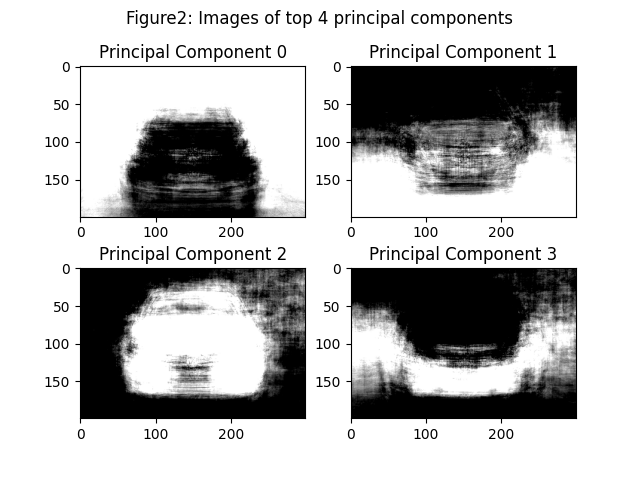
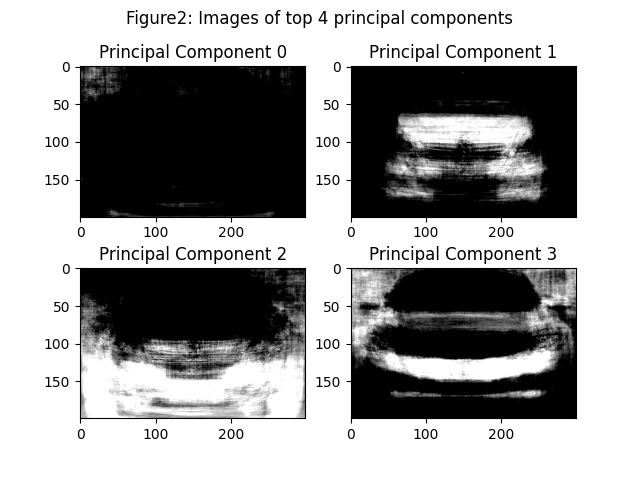
update

diff --git a/PA1/main.py b/PA1/main.py
@@ -1,112 +1,44 @@
 # -*- coding: utf-8 -*
-import os, random
-import numpy as np
 import matplotlib.pyplot as plt
-from PCA import PCA
 from dataloader import load_data
-from gradientDescent import *
 from utils import *
+from TrainProcedure import *
 
 def main():
-    # Load data from ./resized/ folder
-    images, cnt = load_data(data_dir="./resized/")
-    Minivan = images.get('Minivan')
-    Convertible = images.get('Convertible')
+    do_show_fig = True
+    do_save_fig = True
+    CrossValid = True
 
-    minivan = flatten_img(Minivan)
-    convertible = flatten_img(Convertible)
+    lr = 5 # learning rate
+    M = 600 # Total Epoch
+    Interval = 50 # Interval used for drawing the errorbars
+    if CrossValid:
+        # k-fold dataset
+        k = 10
+        # Load data from ./resized/ folder
+        images, cnt = load_data(data_dir="./aligned/")
+        Minivan = images.get('Minivan')
+        Convertible = images.get('Convertible')
+        minivan = flatten_img(Minivan)
+        convertible = flatten_img(Convertible)
+        cost_train, acc_train, cost_val, acc_val, cost_test, acc_test, final_acc = CrossRun(k, minivan, convertible, lr, M)
+    else:
+        # Load data from ./resized/ folder
+        images, cnt = load_data(data_dir="./resized/")
+        Minivan = images.get('Minivan')
+        Convertible = images.get('Convertible')
+        minivan = flatten_img(Minivan)
+        convertible = flatten_img(Convertible)
+        cost_train, acc_train, cost_val, acc_val, cost_test, acc_test, final_acc = OneRun(minivan, convertible, lr, M)
 
-
-    # select train/val/test from class1=Minivan(M)
-    trainM, valM, testM = split_dataset(minivan,10)
-    # select train/val/test from class2=Convertible(C)
-    trainC, valC, testC = split_dataset(convertible,10)
-    # combine the datasets
-    train1 = np.concatenate((trainM, trainC),axis=0) # images
-    val1 = np.concatenate((valM, valC),axis=0)
-    test1 = np.concatenate((testM, testC),axis=0)
-    # generate input y from the datasets
-    train1_y = generate_y(trainM,trainC)
-    val1_y = generate_y(valM,valC)
-    test1_y = generate_y(testM,testC)
-
-    # Perform PCA on the flattened training set
-    # Try using different numbers of components
-    num_PC = 10
-    projected, mean_image, top_sqrt_eigen_values, top_eigen_vectors, eigen_vectors = PCA(train1,num_PC) # PCA performed only on the training set
-
-    # Check images for top 4 PCs
-    PC4_plot(eigen_vectors)
-
-
-    # Check projections - should be zero mean and unit std
-    # Answer: this is a good idea because normalization help speed up the gradient descent etc.
-    # (Normailzation is necessary for gradient descent) Or the learnt answer will be biased
-    # print(np.average(projected,axis=0)) # this is close to zero
-    # print(np.std(projected,axis=0)) # !=1 ???
+    # Plot: Cost & Accuracy against Epochs
+    plotFunc(cost_train, acc_train, SetName = 'TrainSet', do_save_fig = do_save_fig, CrossValid = CrossValid, Epoch = M, Interval = Interval)
+    plotFunc(cost_val, acc_val, SetName = 'ValidSet', do_save_fig = do_save_fig, CrossValid = CrossValid, Epoch = M, Interval = Interval)
+    plotFunc(cost_test, acc_test, SetName = 'TestSet', do_save_fig = do_save_fig, CrossValid = CrossValid, Epoch = M, Interval = Interval)
+    if do_show_fig:
+        plt.show()
 
 
-    # generate input x from the datasets
-    train1_x = np.insert(projected, 0, 1, axis=1) # adding x0 = 1 (a ones column)
-    val1_x = apply_PCA(val1,mean_image,top_eigen_vectors,top_sqrt_eigen_values)
-    test1_x = apply_PCA(test1,mean_image,top_eigen_vectors,top_sqrt_eigen_values)
-
-    # print(train1_x.shape)
-    # print(train1_y.shape)
-    # print(w.shape)
-
-    # initial weight vector
-    w = theta(train1_x)
-    # define learning rate and total number of epochs
-    lr = 5
-    M = 600
-    # lists that record cost
-    cost_train_list = []
-    cost_val_list = []
-    cost_test_list = []
-    # lists that record accuracy
-    acc_train_list = []
-    acc_val_list = []
-    acc_test_list = []
-
-    # loop M epochs
-    for epoch in range(M):
-        # tran the model with training set (train_x and train_y)
-        grad, w = stepwise_gradient(train1_x,train1_y,w,lr)
-        # compute and record cost and accuracy
-        # training set
-        cost_train = cost_function(train1_x, train1_y, w)
-        cost_train_list.append(cost_train)
-        acc_train = predict_acc(train1_x, train1_y, w)
-        acc_train_list.append(acc_train)
-        # acc_train =
-        # validation set
-        cost_val = cost_function(val1_x,val1_y,w) # test performance on val every epoch
-        cost_val_list.append(cost_val)
-        acc_val = predict_acc(val1_x, val1_y, w)
-        acc_val_list.append(acc_val)
-        # testing set
-        cost_test = cost_function(test1_x, test1_y, w)
-        cost_test_list.append(cost_test)
-        acc_test = predict_acc(test1_x, test1_y, w)
-        acc_test_list.append(acc_test)
-    # save the best model
-    print(cost_val_list)
-    ad
-    val, idx = min((val, idx) for (idx, val) in enumerate(cost_val_list))
-
-    print(cost_test_list[idx],acc_test_list[idx])
-
-    # Plot: Cost against Epochs
-    plt.figure()
-    plt.plot(cost_train_list, 'b', label='training error')
-    plt.plot(cost_val_list, 'r', label='validation error')
-    plt.xlabel('M epochs')
-    plt.ylabel('Cost')
-    plt.title('Training and validation loss in one run')
-    plt.legend()
-    # plt.show()
-    plt.savefig('./figures/Q5b_curves.png')
 
 if __name__ == '__main__':
     main()

diff --git a/PA1/TrainProcedure.py b/PA1/TrainProcedure.py
@@ -1,0 +1,112 @@
+from gradientDescent import *
+from utils import *
+import numpy as np
+from PCA import PCA
+
+#Main training procejures for CrossRun
+def CrossRun(k, minivan, convertible, lr, M):
+    # define learning rate and total number of epochs
+    trainM, valM, testM = split_dataset_k_fold(minivan, k)
+    trainC, valC, testC = split_dataset_k_fold(convertible, k)
+    cost_train = np.zeros([k, M])
+    acc_train = np.zeros([k, M])
+    cost_val = np.zeros([k, M])
+    acc_val = np.zeros([k, M])
+    cost_test = np.zeros([k, M])
+    acc_test = np.zeros([k, M])
+    final_acc = np.zeros([k,1])
+    for i in range(k):
+        print('This is %dth iteration.' %(i))
+        #the first parameter corresponds to the index of the output image
+        cost_train_list, acc_train_list, cost_val_list, acc_val_list, cost_test_list, acc_test_list, final_acc_value = OneRunKernel(i, lr, M, trainM[i], valM[i], testM[i], trainC[i], valC[i], testC[i], CrossValid = True)
+        cost_train[i,:] = np.array(cost_train_list)
+        acc_train[i,:] = np.array(acc_train_list)
+        cost_val[i,:] = np.array(cost_val_list)
+        acc_val[i,:] = np.array(acc_val_list)
+        cost_test[i,:] = np.array(cost_test_list)
+        acc_test[i,:] = np.array(acc_test_list)
+        final_acc[i] = final_acc_value
+    return cost_train, acc_train, cost_val, acc_val, cost_test, acc_test, np.mean(final_acc)
+
+#Main training procejures for One_run
+def OneRun(minivan, convertible, lr, M):
+    # define learning rate and total number of epochs
+    lr = 5
+    M = 600
+    # select train/val/test from class1=Minivan(M)
+    trainM, valM, testM = split_dataset_one_run(minivan)
+    # select train/val/test from class2=Convertible(C)
+    trainC, valC, testC = split_dataset_one_run(convertible)
+
+    return OneRunKernel(0, lr, M, trainM, valM, testM, trainC, valC, testC)  #the first parameter in this case is useless
+
+# Kernel function for training during each trail
+def OneRunKernel(i, lr, M, trainM, valM, testM, trainC, valC, testC, CrossValid = False):
+    # combine the datasets
+    train1 = np.concatenate((trainM, trainC),axis=0) # images
+    val1 = np.concatenate((valM, valC),axis=0)
+    test1 = np.concatenate((testM, testC),axis=0)
+    # generate input y from the datasets
+    train1_y = generate_y(trainM,trainC)
+    val1_y = generate_y(valM,valC)
+    test1_y = generate_y(testM,testC)
+
+    # Perform PCA on the flattened training set
+    # Try using different numbers of components
+    num_PC = 10
+    projected, mean_image, top_sqrt_eigen_values, top_eigen_vectors, eigen_vectors = PCA(train1,num_PC) # PCA performed only on the training set
+    # Check images for top 4 PCs
+    PC4_plot(eigen_vectors, i, CrossValid)
+
+    # Check projections - should be zero mean and unit std
+    # Answer: this is a good idea because normalization help speed up the gradient descent etc.
+    # (Normailzation is necessary for gradient descent) Or the learnt answer will be biased
+    # print(np.average(projected,axis=0)) # this is close to zero
+    # print(np.std(projected,axis=0)) # !=1 ???
+
+    # generate input x from the datasets
+    # Using PCA to reduce the dimensionality (60000 -> 10, which greatly reduce the size of NN)
+    train1_x = np.insert(projected, 0, 1, axis=1) # adding x0 = 1 (a ones column)
+    val1_x = apply_PCA(val1,mean_image,top_eigen_vectors,top_sqrt_eigen_values)
+    test1_x = apply_PCA(test1,mean_image,top_eigen_vectors,top_sqrt_eigen_values)
+    # print(train1_x.shape)
+    # print(train1_y.shape)
+    # print(w.shape)
+
+    # initial weight vector
+    w = theta(train1_x)
+    # lists that record cost
+    cost_train_list = []
+    cost_val_list = []
+    cost_test_list = []
+    # lists that record accuracy
+    acc_train_list = []
+    acc_val_list = []
+    acc_test_list = []
+
+    # loop M epochs
+    for epoch in range(M):
+        # tran the model with training set (train_x and train_y)
+        w = stepwise_gradient(train1_x,train1_y,w,lr)
+        # compute and record cost and accuracy
+        # training set
+        cost_train = cost_function(train1_x, train1_y, w)
+        cost_train_list.append(cost_train)
+        acc_train = predict_acc(train1_x, train1_y, w)
+        acc_train_list.append(acc_train)
+        # acc_train =
+        # validation set
+        cost_val = cost_function(val1_x,val1_y,w) # test performance on val every epoch
+        cost_val_list.append(cost_val)
+        acc_val = predict_acc(val1_x, val1_y, w)
+        acc_val_list.append(acc_val)
+        # testing set
+        cost_test = cost_function(test1_x, test1_y, w)
+        cost_test_list.append(cost_test)
+        acc_test = predict_acc(test1_x, test1_y, w)
+        acc_test_list.append(acc_test)
+    # save the best model
+    val, idx = min((val, idx) for (idx, val) in enumerate(cost_val_list))  #Access the index associated with the lowest loss on the ValidSet
+    # print(cost_test_list[idx],acc_test_list[idx])
+
+    return cost_train_list, acc_train_list, cost_val_list, acc_val_list, cost_test_list, acc_test_list, acc_test_list[idx]

diff --git a/PA1/utils.py b/PA1/utils.py
@@ -10,11 +10,35 @@ def flatten_img(imgset):
         new_set.append(imgset[i].flatten())
     return np.array(new_set)
 
-# Split the dataset into (k-2) sets for training, 1 set for validation and 1 set for testing
-def split_dataset(dataset,k):
+# Split the dataset into 8/10 portion for training, 1 set for validation and 1 set for testing
+# Repeat k times and then average
+def split_dataset_k_fold(dataset, k):
     size = len(dataset)
-    cut_train = int((k-2)/k * size) # training cutoff
-    cut_val = int(1/k * size) # validation cutoff
+    cut_train = int((10-2)/10 * size) # training cutoff
+    cut_val = int(1/10 * size) # validation cutoff
+    train = []
+    val = []
+    test = []
+    for i in range(k):
+        # shuffle the dataset
+        idx = np.arange(0,size)
+        random.shuffle(idx)
+        shuffled_M = dataset[idx]
+        # select subsets of data
+        train_tmp = shuffled_M[:cut_train] # (k-2) training set
+        val_tmp = shuffled_M[cut_train:(cut_train+cut_val)] # 1 validation set
+        test_tmp = shuffled_M[(cut_train+cut_val):] # 1 testing set
+        train.append(train_tmp)
+        val.append(val_tmp)
+        test.append(test_tmp)
+    return train, val, test
+
+
+# Split the dataset into 8/10 portion for training, 1 set for validation and 1 set for testing
+def split_dataset_one_run(dataset):
+    size = len(dataset)
+    cut_train = int((10-2)/10 * size) # training cutoff
+    cut_val = int(1/10 * size) # validation cutoff
     # shuffle the dataset
     idx = np.arange(0,size)
     random.shuffle(idx)
@@ -26,14 +50,13 @@ def split_dataset(dataset,k):
     return train, val, test
 
 # Check images for top 4 PCs
-def PC4_plot(eigen_vectors):
+def PC4_plot(eigen_vectors, i, CrossValid):
     imgs = []
     for n in range(4):
         vh = eigen_vectors[n]
         vh_img = np.reshape(vh,(200,300))
         img = Image.fromarray(vh_img)
         imgs.append(img)
-    plt.figure()
     fig, ax = plt.subplots(2,2)
     fig.suptitle('Figure2: Images of top 4 principal components')
     ax[0, 0].imshow(imgs[0])
@@ -45,9 +68,12 @@ def PC4_plot(eigen_vectors):
     ax[1, 1].imshow(imgs[3])
     ax[1, 1].set_title('Principal Component 3')
     # plt.show()
-    plt.savefig('./figures/Q5b_top4PCs.png')
+    if CrossValid:
+        plt.savefig('./figures/Q5c_top4PCs_' + str(i) + '.png')
+    else:
+        plt.savefig('./figures/Q5b_top4PCs.png')
 
-# Generate y vectors (class=0/1) for train/val/test set
+# Generate y vectors (class=0/1 = Con/Min) for train/val/test set
 def generate_y(dataM,dataC):
     dataM_y = np.ones(len(dataM))
     dataC_y = np.zeros(len(dataC))
@@ -61,3 +87,31 @@ def apply_PCA(input_dataset,mean_image,top_eigen_vectors,top_sqrt_eigen_values):
     projected = np.matmul(msd, top_eigen_vectors)/top_sqrt_eigen_values
     PACed_x = np.insert(projected, 0, 1, axis=1)
     return PACed_x
+
+def plotFunc(cost_list, accuracy_list, SetName = 'TrainSet', do_save_fig = False, CrossValid = False, Epoch =  0, Interval = 0):
+    fig = plt.figure()
+    if CrossValid:  #k sets experiments
+        cost_bar = np.std(cost_list, axis = 0)
+        accu_bar = np.std(accuracy_list, axis = 0)
+        Bar_number = int((Epoch - 1) / Interval + 1)
+        I = np.linspace(0, Epoch - 1, Bar_number)
+        I = [int(i) for i in I] #round to integer
+        cost_list = np.mean(cost_list, axis = 0)
+        accuracy_list = np.mean(accuracy_list, axis = 0)
+        plt.errorbar(I, cost_list[I], yerr = cost_bar[I], fmt = '.b', capsize=5)
+        plt.errorbar(I, accuracy_list[I], yerr = accu_bar[I], fmt = '.r', capsize=5)
+    Costlabel = SetName + ' Error'
+    Accuracylabel = SetName + ' Error'
+    plt.plot(cost_list, 'b', label = Costlabel)
+    plt.plot(accuracy_list, 'r', label = Accuracylabel)
+    plt.xlabel('M epochs')
+    plt.ylabel('Cost')
+    plt.title('Loss and Accurcy in one run on ' + SetName)
+    # ax.grid(True)
+    plt.grid('color')
+    plt.legend(['Loss', 'Accuracy'])
+    if do_save_fig:
+        if CrossValid:
+            plt.savefig('./figures/Q5c_' + SetName + '_curves.png')
+        else:
+            plt.savefig('./figures/Q5b_' + SetName + '_curves.png')

diff --git a/PA1/gradientDescent.py b/PA1/gradientDescent.py
@@ -10,15 +10,17 @@ def theta(X):
     return theta
 
 # define the cost function given training examples and theta
+# corss-entropy loss function
 def cost_function(X,y,theta):
     theta = np.asmatrix(theta)
     X = np.asmatrix(X)
     y = np.asmatrix(y)
-    cost_i = np.multiply(-y, np.log(sigmoid(X * theta.T))) - np.multiply((1 - y), np.log(1 - sigmoid(X * theta.T)))
+    cost_i = np.multiply(-y, np.log(sigmoid(X * theta.T))) - np.multiply((1 - y), np.log(1 - sigmoid(X * theta.T))) #multiple in an element-wise way
     cost = np.sum(cost_i) / (len(X))
     return cost
 
 # define one round of gradient descent and weights update
+# theta -> weight parameter
 def stepwise_gradient(X,y,theta,lr):
     theta = np.asmatrix(theta)
     X = np.asmatrix(X)
@@ -28,15 +30,15 @@ def stepwise_gradient(X,y,theta,lr):
     grad = np.squeeze(np.asarray(grad))
     theta_updated = theta - lr*grad
     theta_updated = np.squeeze(np.asarray(theta_updated))
-    return grad, theta_updated
+    return theta_updated
 
 # define prediction accuracy
 def predict_acc(X,y,theta):
     theta = np.asmatrix(theta)
     X = np.asmatrix(X)
     prob = sigmoid(X * theta.T)
-    prediction_list =  [0 if x < 0.5 else 1 for x in prob] # prediction=1 when => 0.5
+    prediction_list =  [0 if x < 0.5 else 1 for x in prob] # prediction=1 when => 0.5 (probability of x belonging to C_1)
     correct = [1 if ((a == 1 and b == 1) or (a == 0 and b == 0)) else 0 for (a, b) in zip(prediction_list, y)] # compare prediction and actual y
-    accuracy = sum(correct)/len(correct)*100 # accuracy in %
+    accuracy = sum(correct)/len(correct) # accuracy in %
     return accuracy
 
